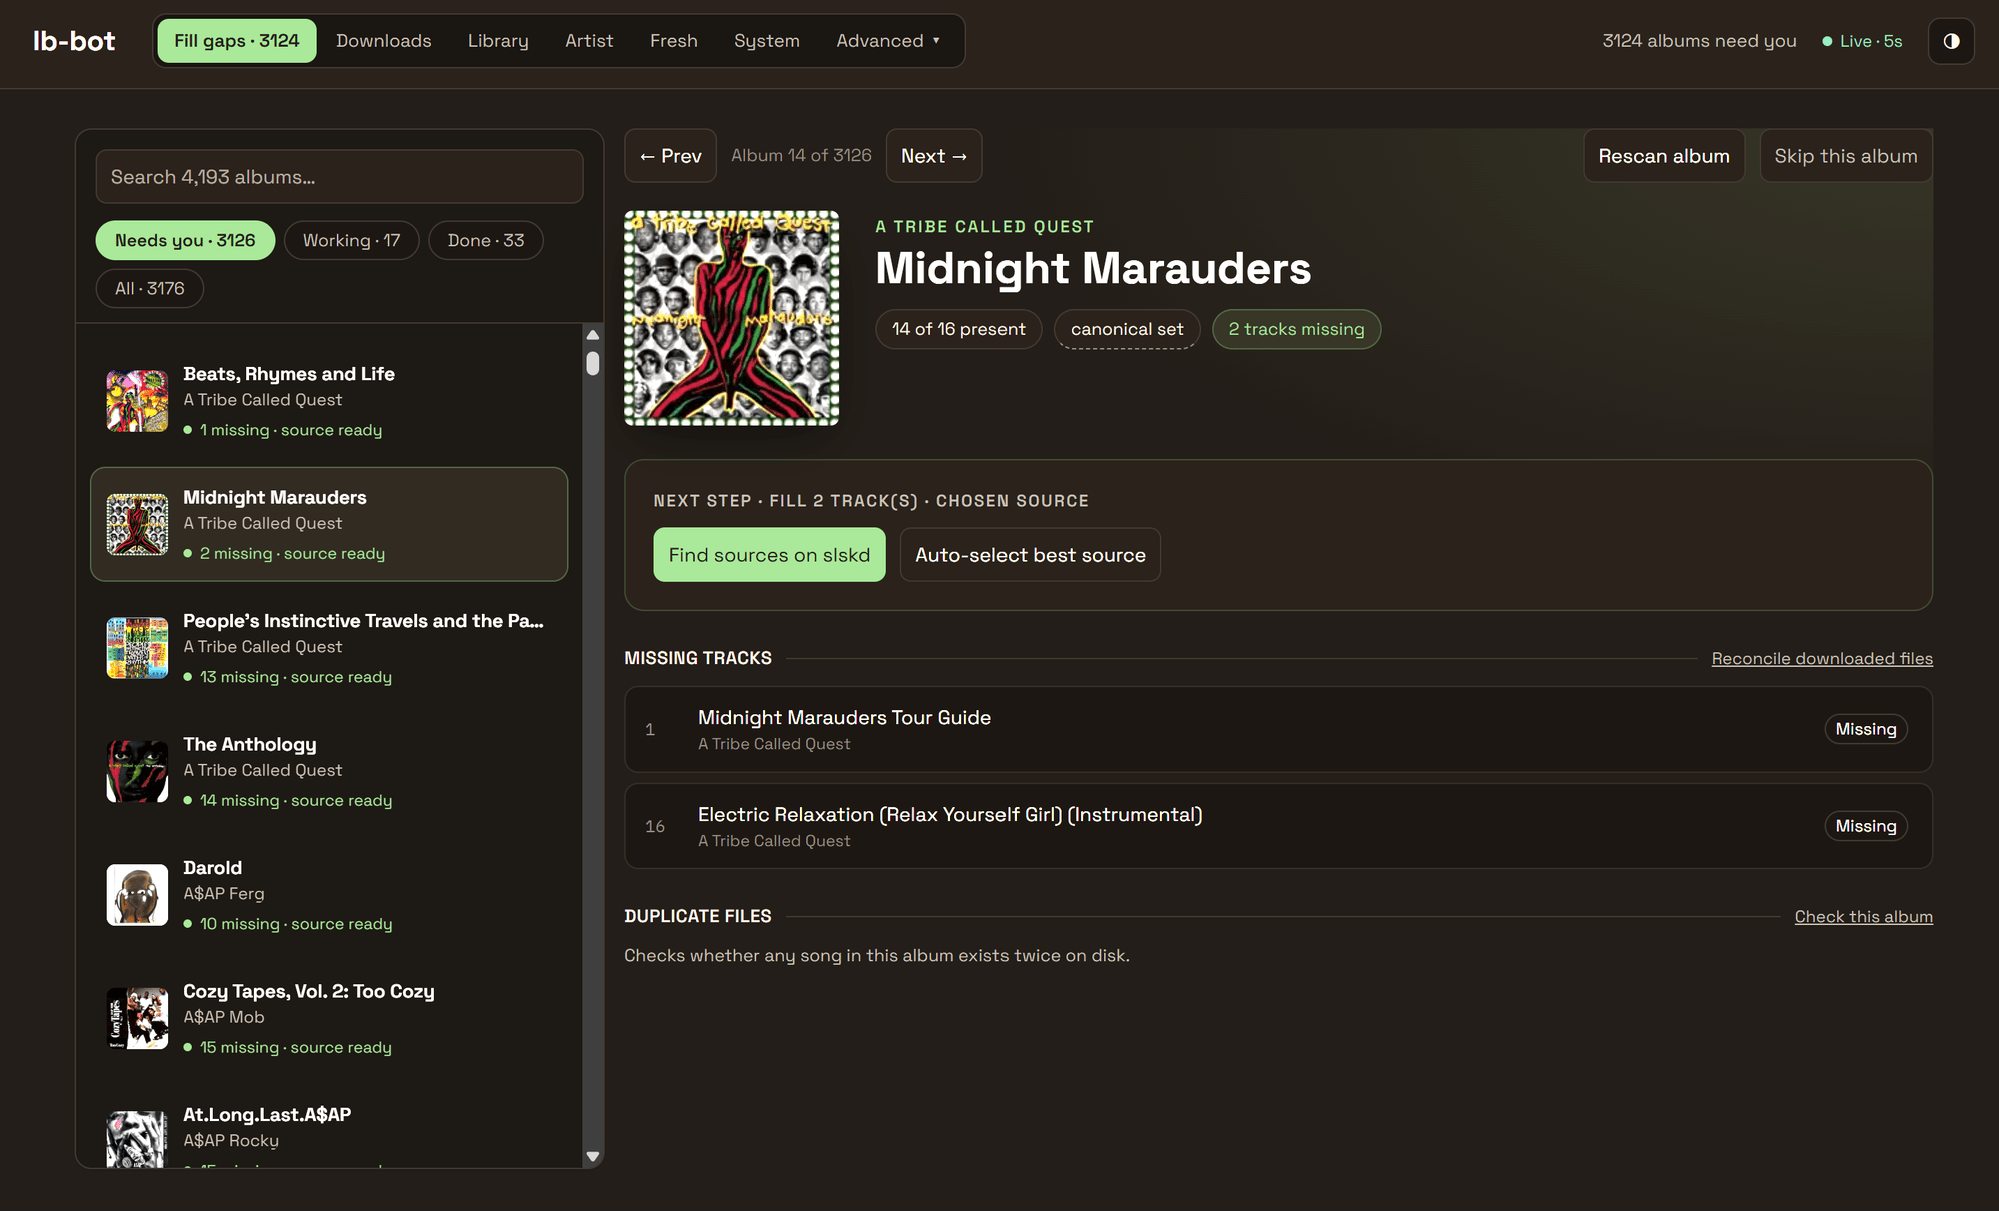
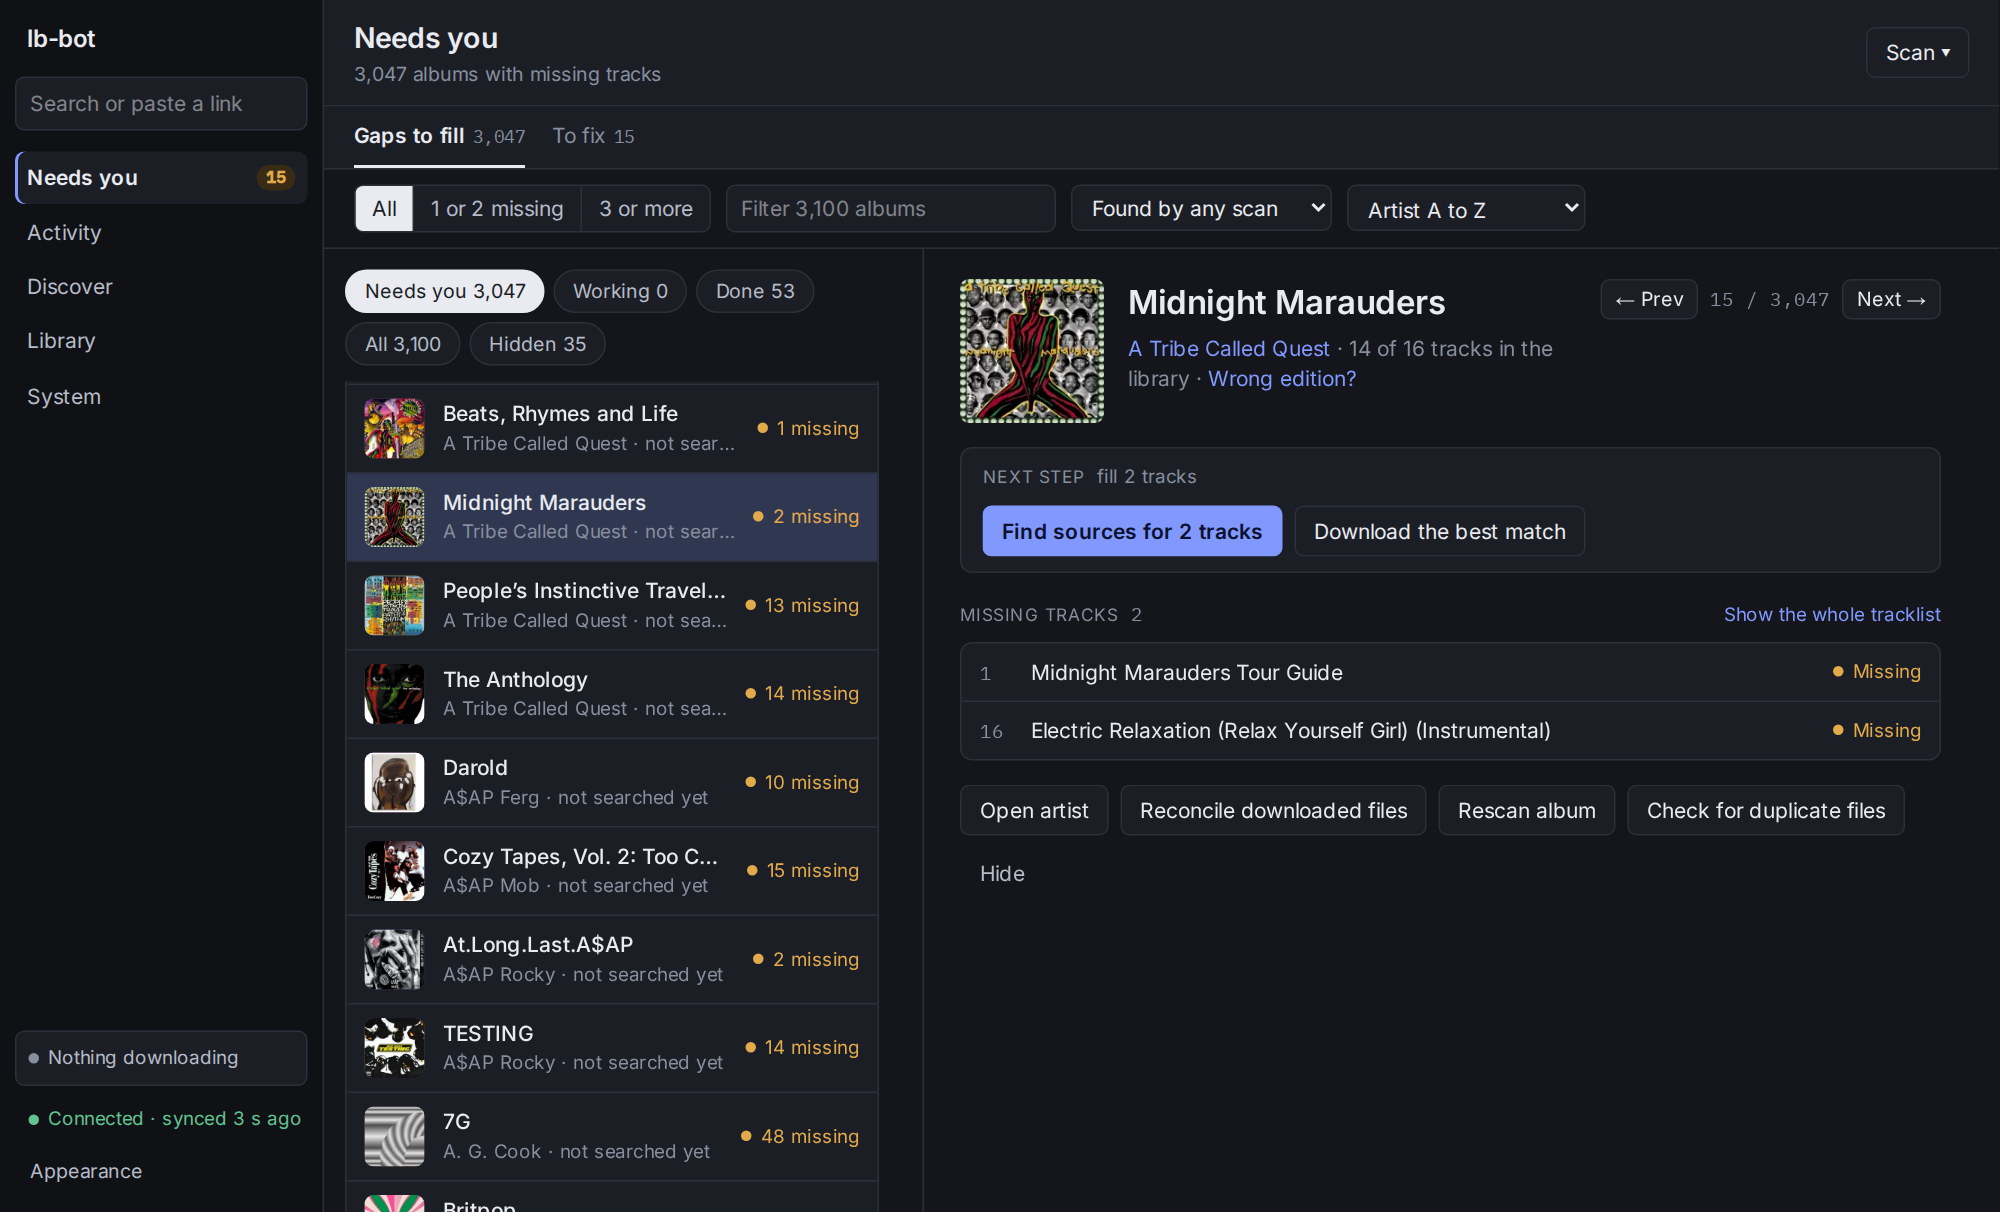
docs: the lb-bot screenshot shows its redesigned web UI
lb-bot's web UI was rebuilt on a new frame (five sections, with the queue of
albums with gaps under "Needs you"), so the README's picture of the old
"Fill gaps" workspace no longer showed what a reader would open. Same album
as before, taken from the running page; the alt text says what is in it now.

Claude-Session: https://claude.ai/code/session_01EDw5meR15fAvWgqjdbkCKz

diff --git a/README.md b/README.md
@@ -51,7 +51,7 @@ sources are ready, and what it's working on.
 
 <p align="center">
   <img src="docs/screenshots/lb-bot-fill-gaps.png" width="720"
-       alt="lb-bot Fill gaps workspace showing an album with 14 of 16 present, 2 tracks missing, and the missing track list" />
+       alt="lb-bot's Needs you page: the queue of albums with gaps on the left, and one album open beside it with 14 of 16 tracks in the library, its 2 missing tracks listed and a Find sources button" />
 </p>
 
 ### Everything else
